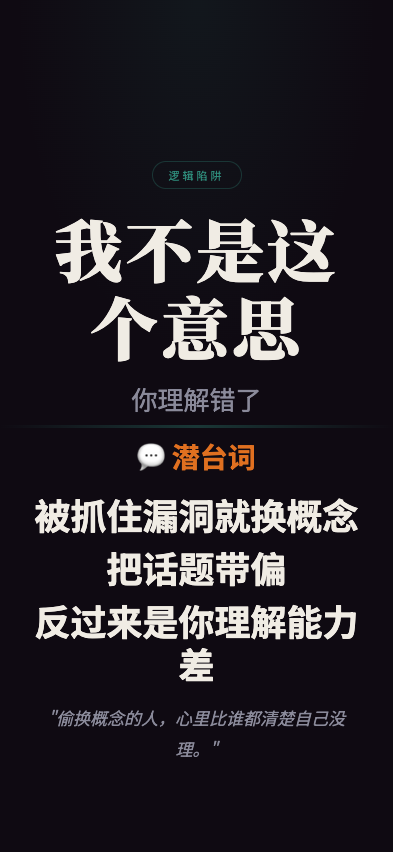
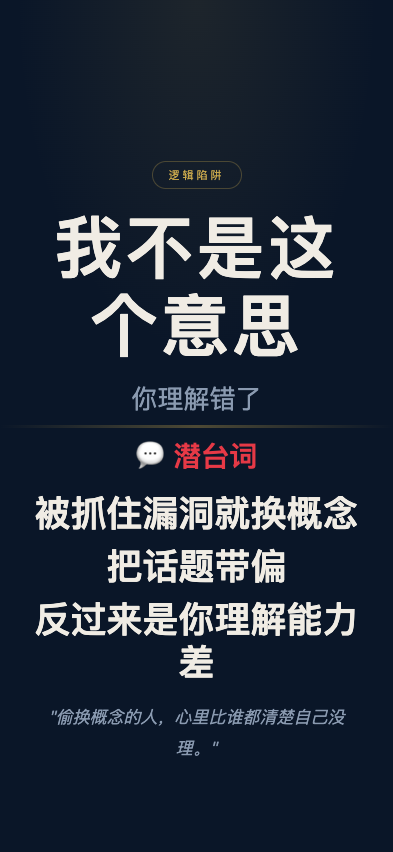
feat: 职场生存法则 screenshot - wobushizhegeyisi

diff --git a/wuliao-tools/tools/biz-speak/scenes/wobushizhegeyisi.html b/wuliao-tools/tools/biz-speak/scenes/wobushizhegeyisi.html
@@ -7,11 +7,11 @@
 <link href="https://fonts.googleapis.com/css2?family=Noto+Serif+SC:wght@400;700;900&family=Noto+Sans+SC:wght@300;400;700&display=swap" rel="stylesheet">
 <style>
   :root {
-    --bg: #0f0a12;
+    --bg: #0a1628;
     --text: #f0ece4;
-    --text-dim: #8a8a9a;
-    --gold: #2e8b7a;
-    --red: #e07020;
+    --text-dim: #8a9ab0;
+    --gold: #c9a84c;
+    --red: #e63946;
   }
   * { margin:0; padding:0; box-sizing:border-box; }
   html, body { width:100%; height:100%; overflow:hidden; }
@@ -24,11 +24,11 @@
   }
   body::before {
     content:''; position:absolute; top:0; left:0; right:0; height:45%;
-    background:radial-gradient(ellipse at 50% 0%, rgba(46,139,122,0.1) 0%, transparent 65%);
+    background:radial-gradient(ellipse at 50% 0%, rgba(201,168,76,0.1) 0%, transparent 65%);
     pointer-events:none; z-index:0;
   }
   .top { flex:1; display:flex; flex-direction:column; align-items:center; justify-content:flex-end; padding:4px 28px 8px; position:relative; z-index:1; }
-  .tag { font-size:11px; letter-spacing:3px; color:var(--gold); border:1px solid rgba(46,139,122,0.3); padding:5px 16px; border-radius:50px; margin-bottom:20px; }
+  .tag { font-size:11px; letter-spacing:3px; color:var(--gold); border:1px solid rgba(201,168,76,0.3); padding:5px 16px; border-radius:50px; margin-bottom:20px; }
   .main-title { font-family:'Noto Serif SC'; font-size:68px; font-weight:900; text-align:center; line-height:1.15; letter-spacing:3px; min-width:0; overflow-wrap:break-word; max-width:92%; }
   .sub-title { font-size:26px; color:var(--text-dim); text-align:center; margin-top:14px; }
   .divider { width:100%; height:3px; background:linear-gradient(90deg,transparent,var(--gold),transparent); opacity:0.35; flex-shrink:0; position:relative; z-index:1; }
@@ -39,7 +39,7 @@
   .quote { font-size:17px; color:var(--text-dim); font-style:italic; text-align:center; line-height:1.8; margin-top:18px; padding:0 12px; }
 </style>
 </head>
-<body>
+<body class="theme-1">
   <div class="top">
     <div class="tag">逻辑陷阱</div>
     <div class="main-title">我不是这个意思</div>
@@ -49,9 +49,7 @@
   <div class="bottom">
     <div class="truth-label">💬 潜台词</div>
     <div class="truth-lines">
-      <div class="truth-line">被抓住漏洞就换概念</div>
-      <div class="truth-line">把话题带偏</div>
-      <div class="truth-line">反过来是你理解能力差</div>
+      <div class="truth-line">被抓住漏洞就换概念</div><div class="truth-line">把话题带偏</div><div class="truth-line">反过来是你理解能力差</div>
     </div>
     <div class="quote">"偷换概念的人，心里比谁都清楚自己没理。"</div>
   </div>
